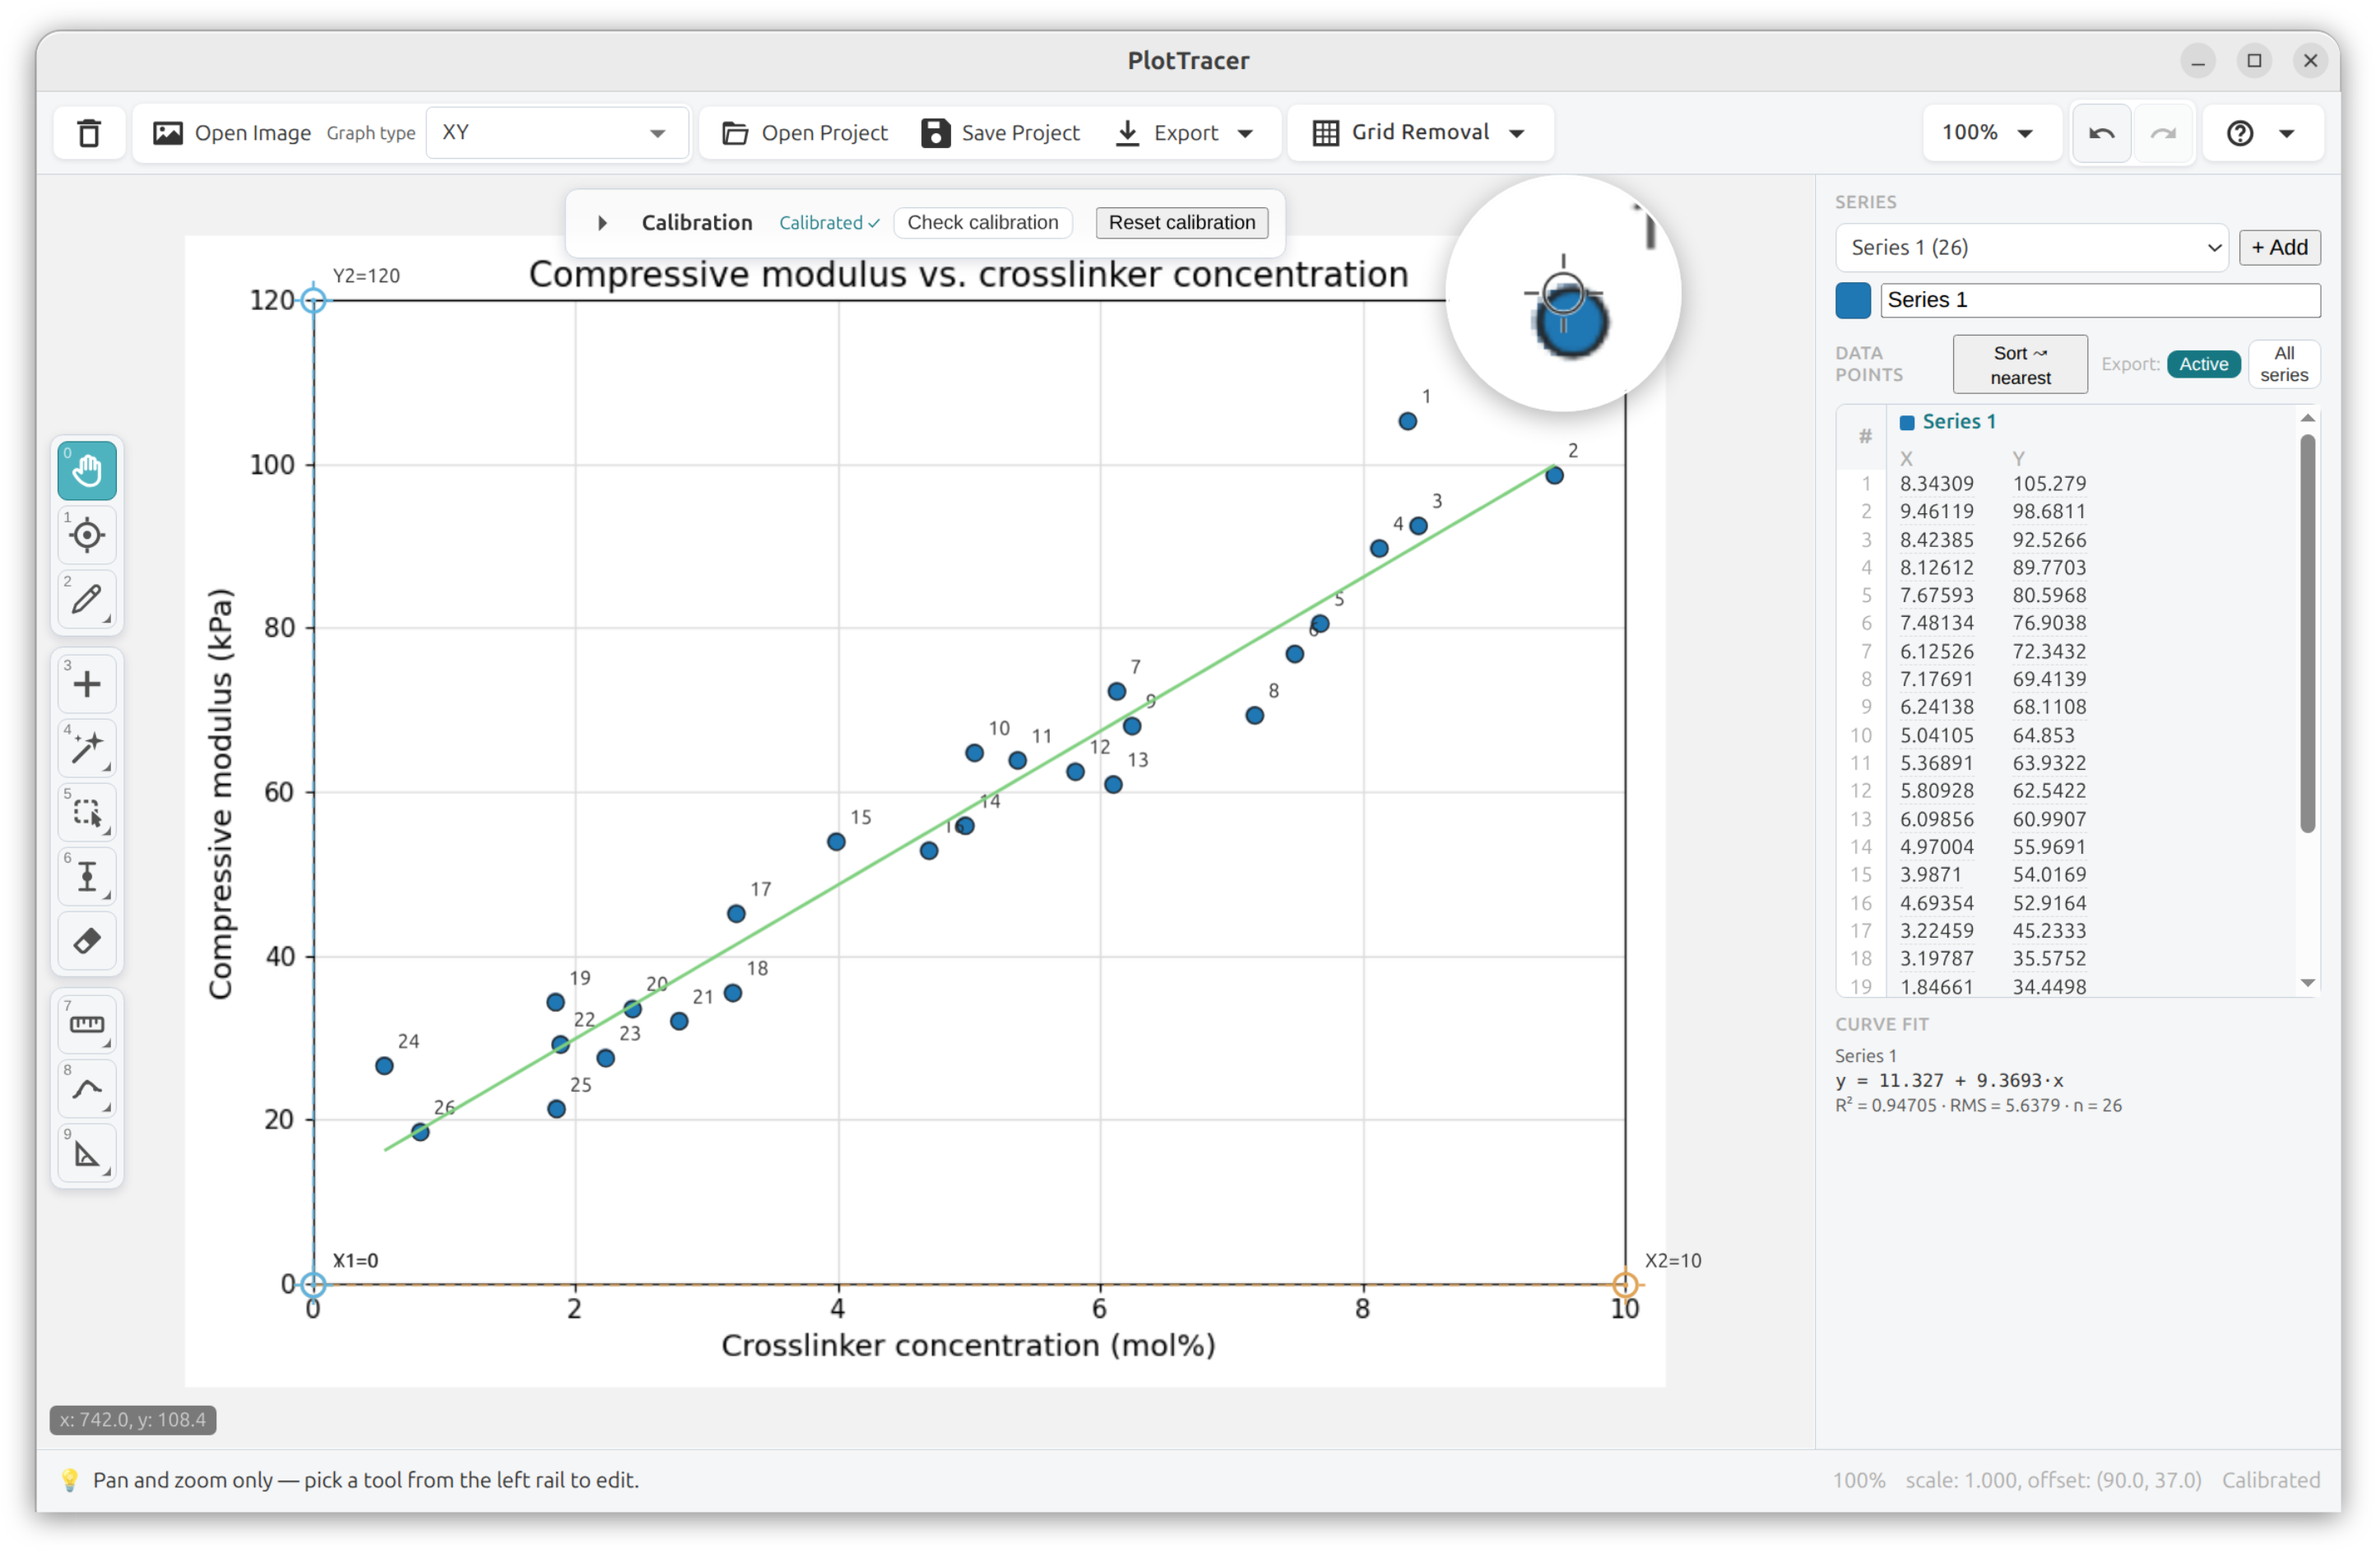
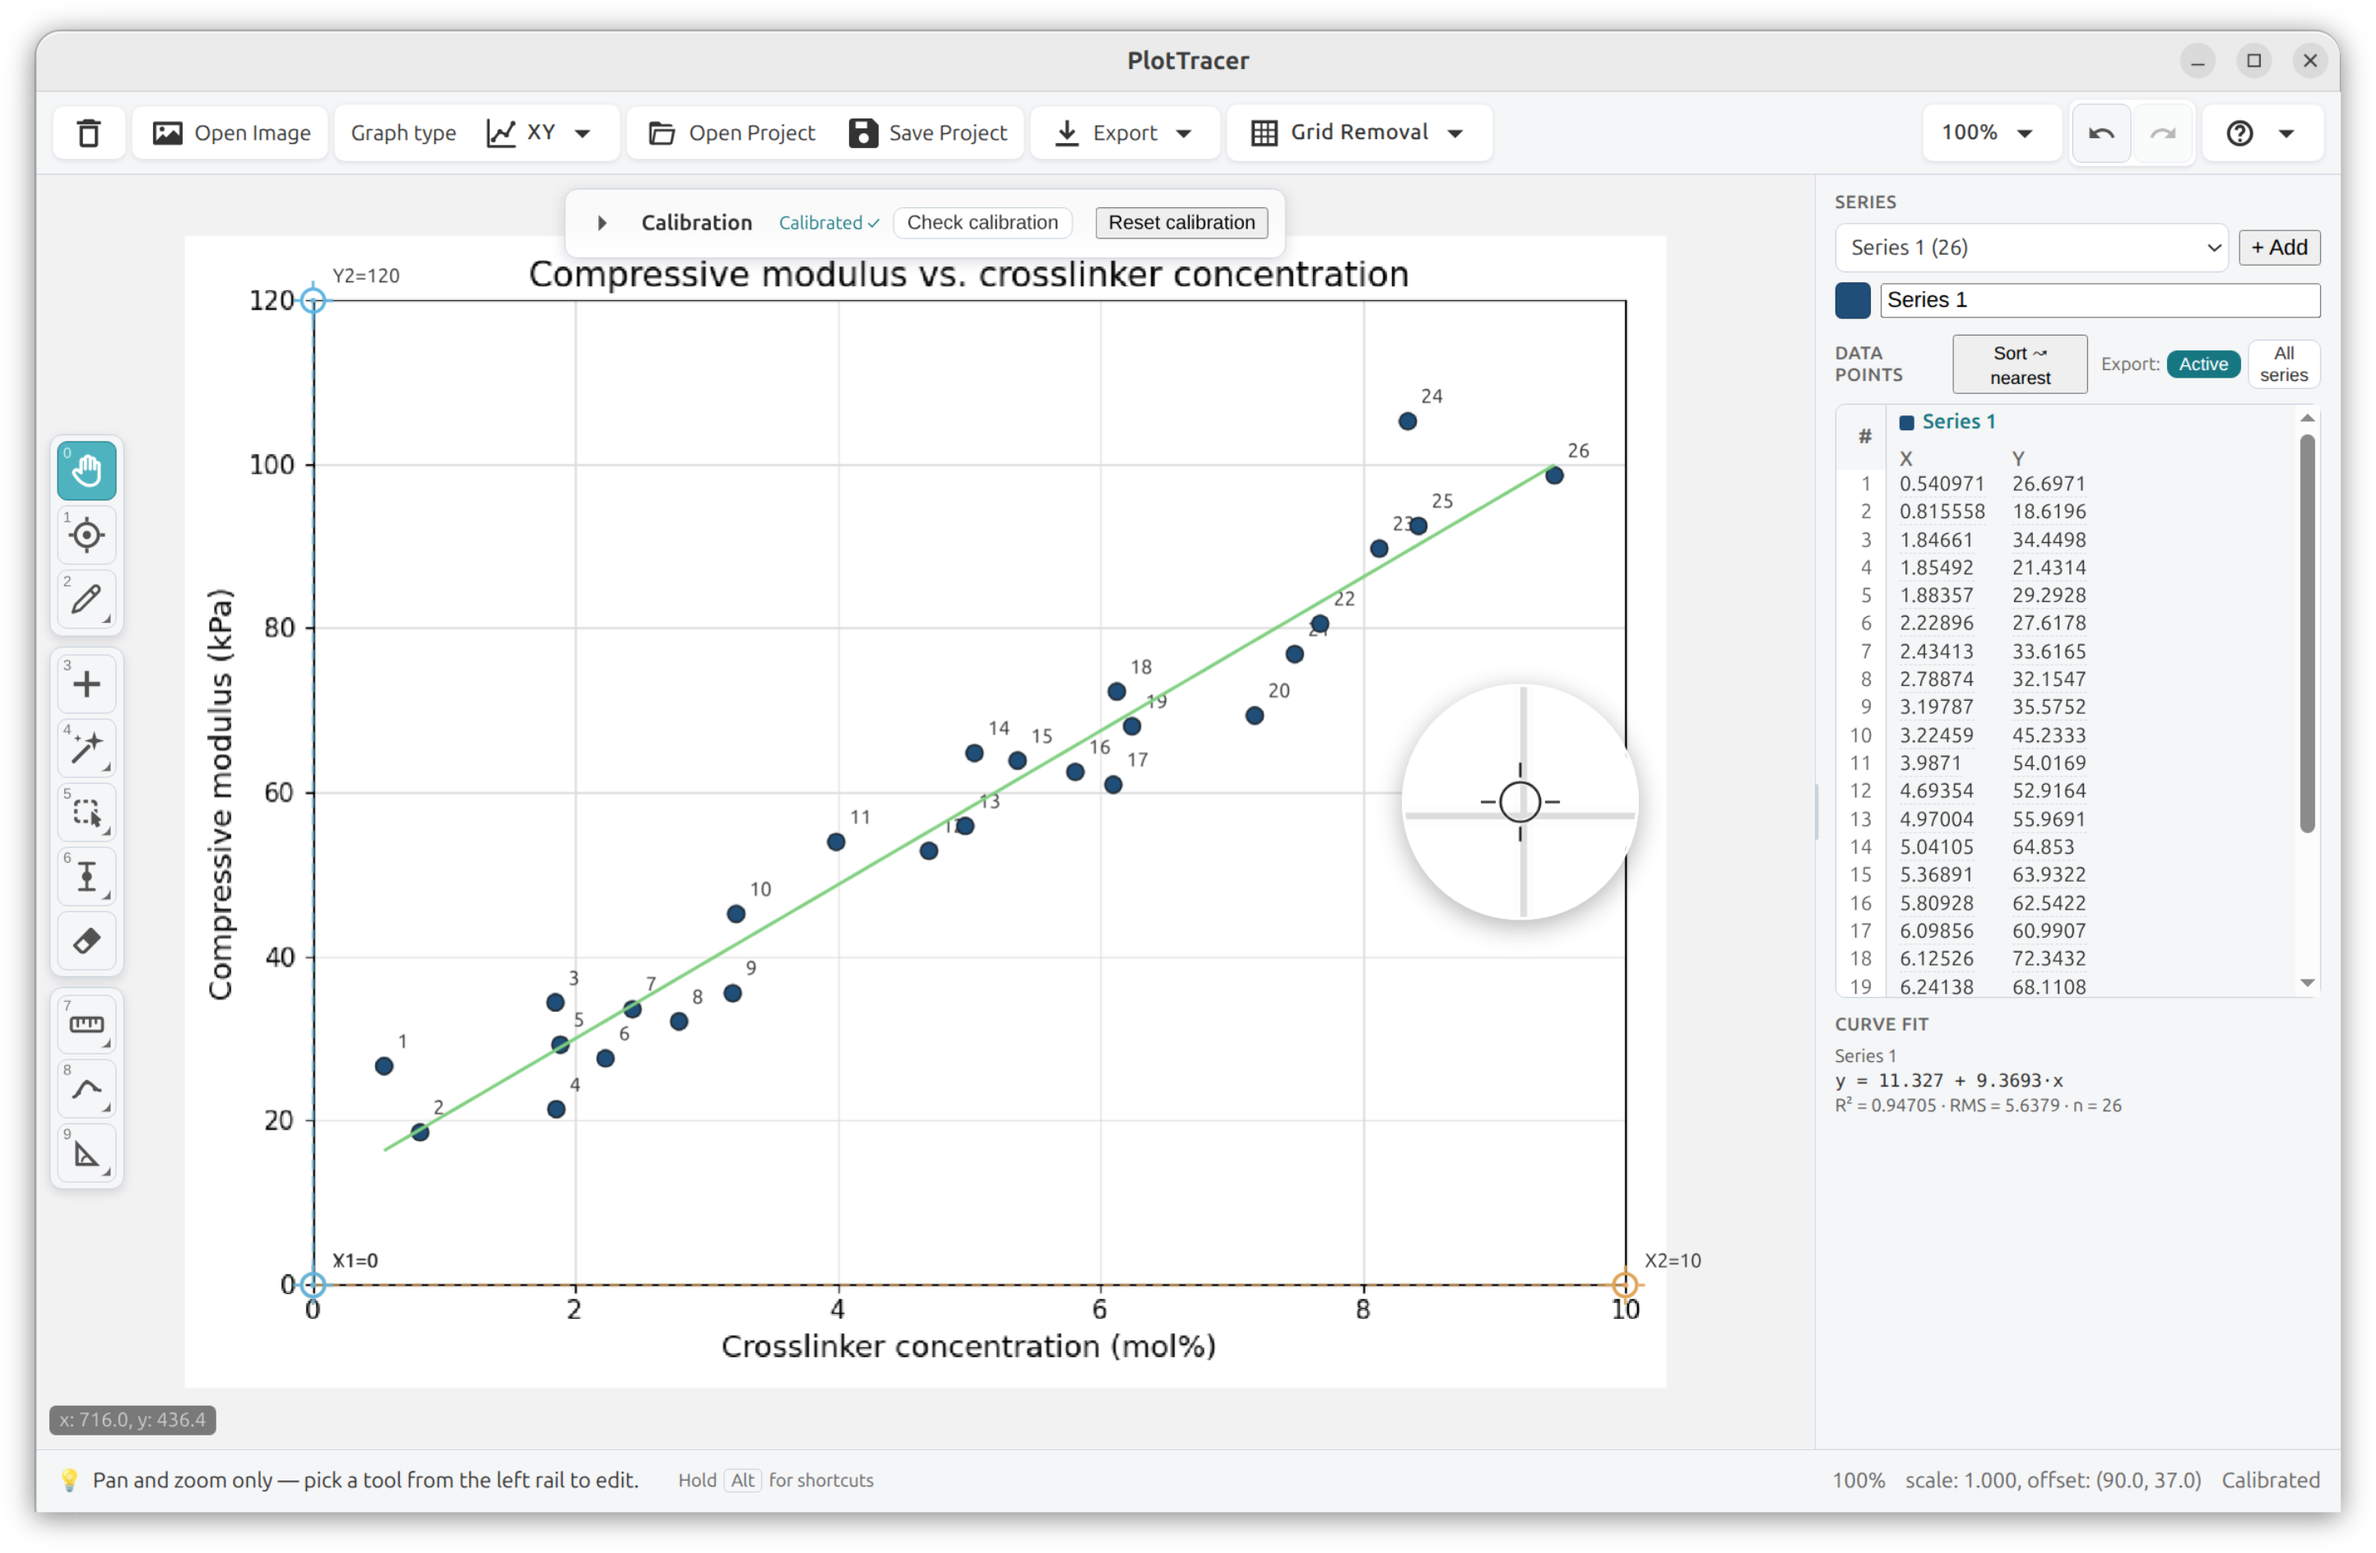
docs: two new gallery cards — the bar model, and the exploded pie
The gallery led with what v1.x was about. It had no BAR screenshot at all,
while the bar interval model is what earned the major version, and no PIE
either, though "Pie, donut & exploded slices" is claimed in the feature list.
Both added; scatter-fit recaptured on 2.0.0 alongside them.

⚑ THE SECTION INTRO PROMISED A PLOT THE GALLERY NEVER SHOWED. It read
"...box plots, polar plots — the same tool, on the plots you meet in practice",
and the cards were scatter, error bars, histogram, box plot and SPIDER. Polar
and Spider are different graph types here, with separate configs and separate
calibration. That also explains the orphaned shot-polar.png sitting
unreferenced in docs/assets: the card it belonged to is not there. The sentence
now says "pie and donut charts", which is what the gallery actually shows.

⚑ Both new shots are captured MID-CAPTURE, not finished — David's call, and it
matches the house style already set by the hero (a trace in flight with the
fold-out open) and by the old box-plot shot (which showed "Next point fills:
Q3 (box 3)"). A finished capture shows an artefact; an in-progress one shows
the tool being used.

⚑ The bar shot took five attempts, and each rejection was a real finding:
  1. auto-extract split every zero-crossing bar in two (the axis line breaks
     connectivity) — 17 boxes for 12 bars. Not used, and it is good evidence
     for the v2.1 cut-offs.
  2. the calibration declared P1=0/P2=30 where the figure reads -15/32, so
[…]

diff --git a/docs/index.html b/docs/index.html
@@ -486,7 +486,7 @@
       <span class="eyebrow">See it on real figures</span>
       <h2>Built for the graphs papers actually publish.</h2>
       <p>Scatter and fitted trends, asymmetric error bars, true histogram bins,
-        box plots, polar plots — the same tool, on the plots you meet in practice.</p>
+        box plots, pie and donut charts — the same tool, on the plots you meet in practice.</p>
     </div>
     <div class="shots">
       <figure class="shot-card">
@@ -508,6 +508,16 @@
         <img class="shot" src="assets/shot-boxplot.png" width="3148" height="1888"
           alt="A box-and-whisker plot in PlotTracer with quartiles captured per category.">
         <figcaption><b>Box plots.</b> Quartiles and whiskers captured per category, named and exported side by side.</figcaption>
+      </figure>
+      <figure class="shot-card">
+        <img class="shot" src="assets/shot-bar.png" width="2888" height="1888"
+          alt="A floating bar chart in PlotTracer being captured — monthly temperature ranges, each bar recorded by dragging corner to corner so both of its ends are measured, bars that cross zero kept whole, the categories named down the right panel beside each bar's span, and the ninth bar half-dragged.">
+        <figcaption><b>Floating bars, measured end to end.</b> Both corners are recorded, so a bar reports its own span rather than a single baseline-relative number — and a range that crosses zero stays one bar instead of being split at the axis.</figcaption>
+      </figure>
+      <figure class="shot-card">
+        <img class="shot" src="assets/shot-pie.png" width="2888" height="1888"
+          alt="A pie chart in PlotTracer — biopolymer film market share — with one slice pulled away from the centre and captured about its own apex, the pie's centre fitted from points placed around the outline rather than clicked, and each sector's name and measured percentage listed in the right panel.">
+        <figcaption><b>Pie &amp; donut — including the slice pulled out.</b> The centre is <em>fitted</em> from the outline rather than clicked, which is what makes a donut, an exploded slice and a tilted 3D top face readable at all. Sectors are reported as measured — these five sum to 99.77%, not a tidied 100.</figcaption>
       </figure>
       <figure class="shot-card" style="grid-column: 1 / -1;">
         <img class="shot" src="assets/shot-spider.png" width="2888" height="1888"
